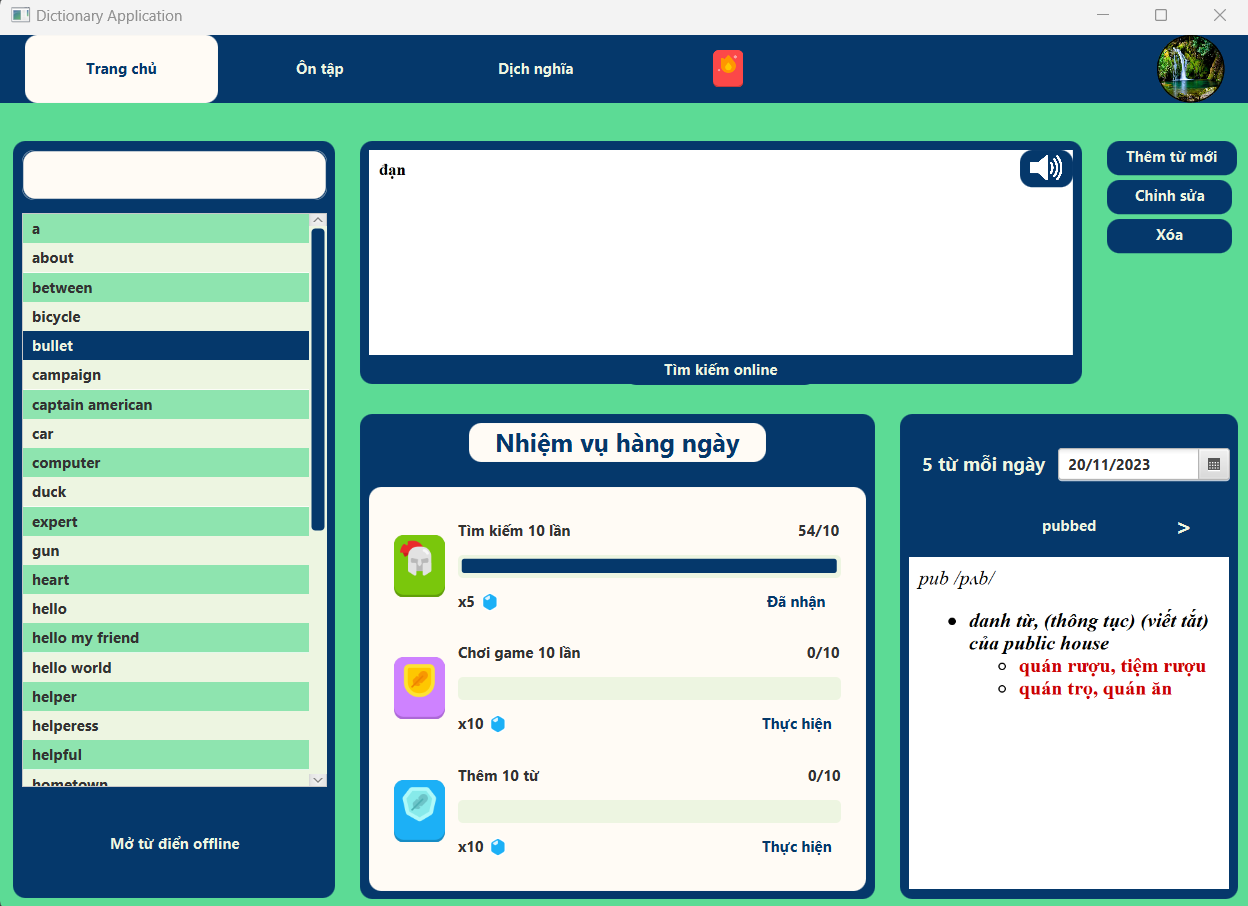
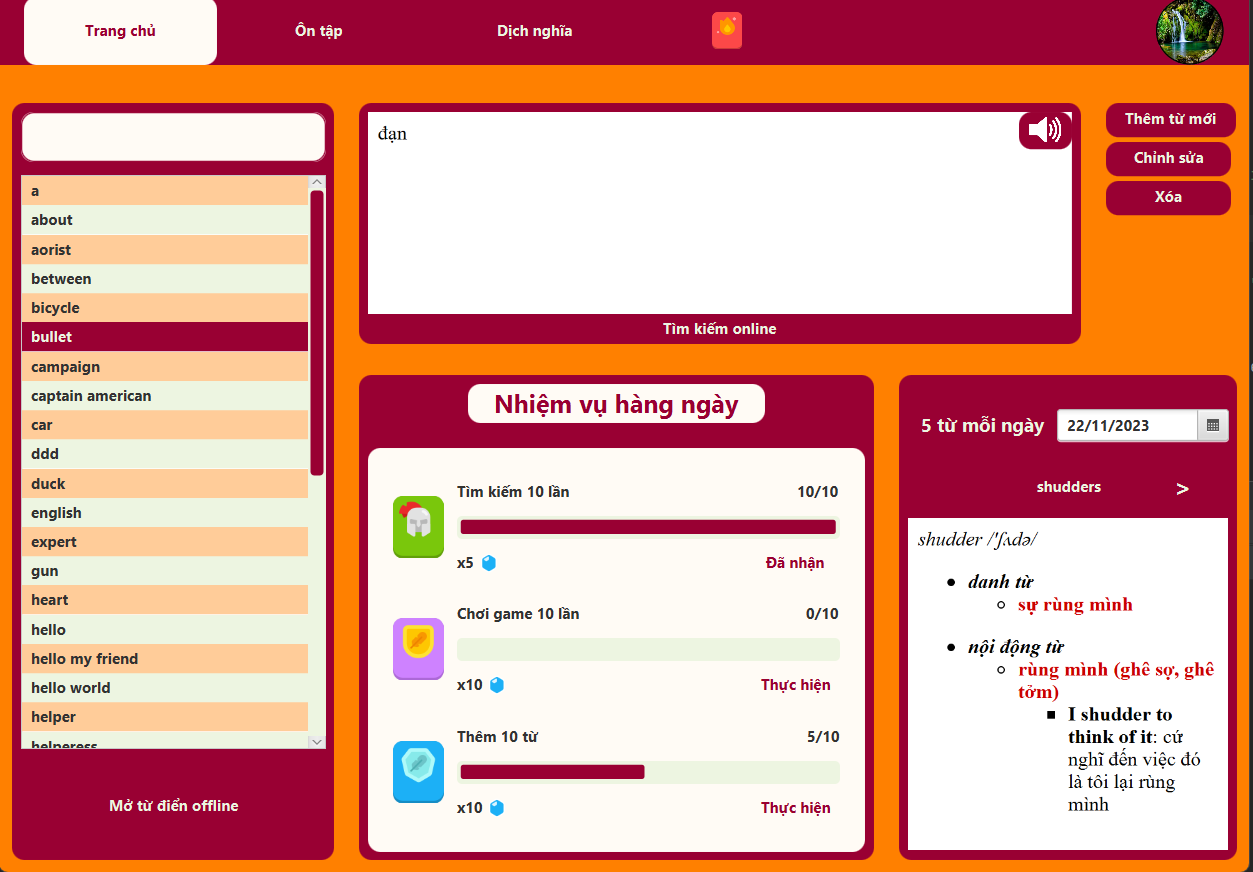
add some theme img

diff --git a/data/css/theme-4/common.css b/data/css/theme-4/common.css
@@ -1,10 +1,10 @@
 .root {
     -fx-white-1 : #FFFBF5;
     -fx-white-2: #EDF5E1;
-    -fx-blue-2 : #05386B;
-    -fx-green-2 : #5CDB95;
-    -fx-green-1 : #8EE4AF;
-    -fx-blue-1 : #379683;
+    -fx-blue-2 : #008fb3;
+    -fx-green-2 : #99ff99;
+    -fx-green-1 : #b3b3ff;
+    -fx-blue-1 : #99ebff;
 }
 
 #div2 {

diff --git a/data/css/theme-5/common.css b/data/css/theme-5/common.css
@@ -1,10 +1,10 @@
 .root {
     -fx-white-1 : #FFFBF5;
     -fx-white-2: #EDF5E1;
-    -fx-blue-2 : #05386B;
-    -fx-green-2 : #5CDB95;
-    -fx-green-1 : #8EE4AF;
-    -fx-blue-1 : #379683;
+    -fx-blue-2 : #cc6600;
+    -fx-green-2 : #ccff99;
+    -fx-green-1 : #66ffff;
+    -fx-blue-1 : #ffb366;
 }
 
 #div2 {

diff --git a/src/main/java/com/example/dictionary/controller/ThemeController.java b/src/main/java/com/example/dictionary/controller/ThemeController.java
@@ -51,12 +51,12 @@ public class ThemeController extends MainController{
     @Override
     protected void initComponents() {
         super.initComponents();
-        img1.setImage(new Image(getClass().getResourceAsStream("theme1.png")));
+        img1.setImage(new Image(getClass().getResourceAsStream("theme0.png")));
         img2.setImage(new Image(getClass().getResourceAsStream("theme1.png")));
-        img3.setImage(new Image(getClass().getResourceAsStream("theme1.png")));
-        img4.setImage(new Image(getClass().getResourceAsStream("theme1.png")));
-        img5.setImage(new Image(getClass().getResourceAsStream("theme1.png")));
-        img6.setImage(new Image(getClass().getResourceAsStream("theme1.png")));
+        img3.setImage(new Image(getClass().getResourceAsStream("theme2.png")));
+        img4.setImage(new Image(getClass().getResourceAsStream("theme3.png")));
+        img5.setImage(new Image(getClass().getResourceAsStream("theme4.png")));
+        img6.setImage(new Image(getClass().getResourceAsStream("theme5.png")));
     }
 
     @Override

diff --git a/src/main/java/com/example/dictionary/user/UserManager.java b/src/main/java/com/example/dictionary/user/UserManager.java
@@ -2,9 +2,6 @@ package com.example.dictionary.user;
 
 import com.example.dictionary.Application;
 import com.example.dictionary.controller.Controller;
-import com.example.dictionary.game.Game1;
-import com.example.dictionary.game.Game2;
-import com.example.dictionary.game.Game3;
 import com.example.dictionary.game.GameManager;
 
 import java.io.*;
@@ -28,6 +25,8 @@ public class UserManager implements Serializable {
         }
         currentUser = user;
         user.login();
+        Controller.handleChangeUser();
+        Application.getInstance().changeTheme(user.getTheme());
     }
 
     public static UserManager getInstance() {

diff --git a/src/main/java/com/example/dictionary/user/User.java b/src/main/java/com/example/dictionary/user/User.java
@@ -257,8 +257,6 @@ public class User implements Serializable {
         tasksTrack.add(false);
         tasksTrack.add(false);
         tasksTrack.add(false);
-
-        login();
     }
 
     public void login() {
@@ -274,8 +272,6 @@ public class User implements Serializable {
         loginDays.add(LocalDate.now());
         readData();
         readImage();
-        Application.getInstance().changeTheme(theme);
-        Controller.handleChangeUser();
     }
 
     public void setPassword(String password) {
